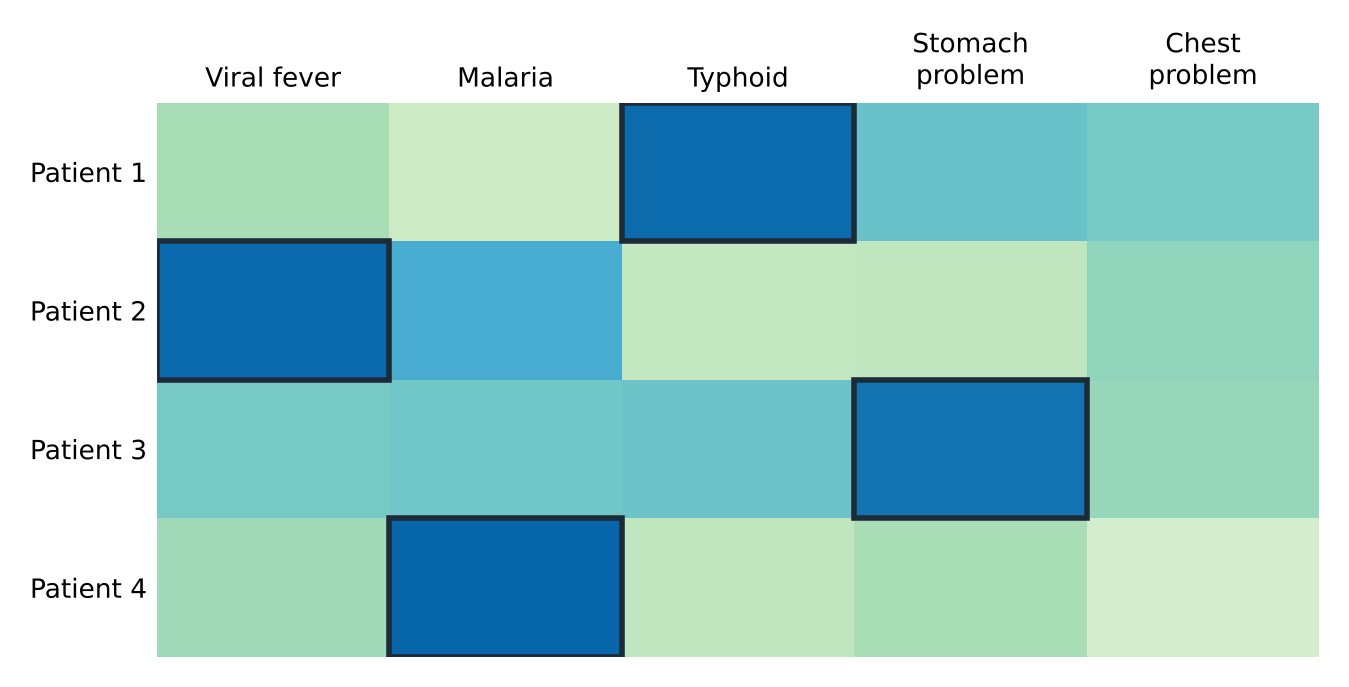
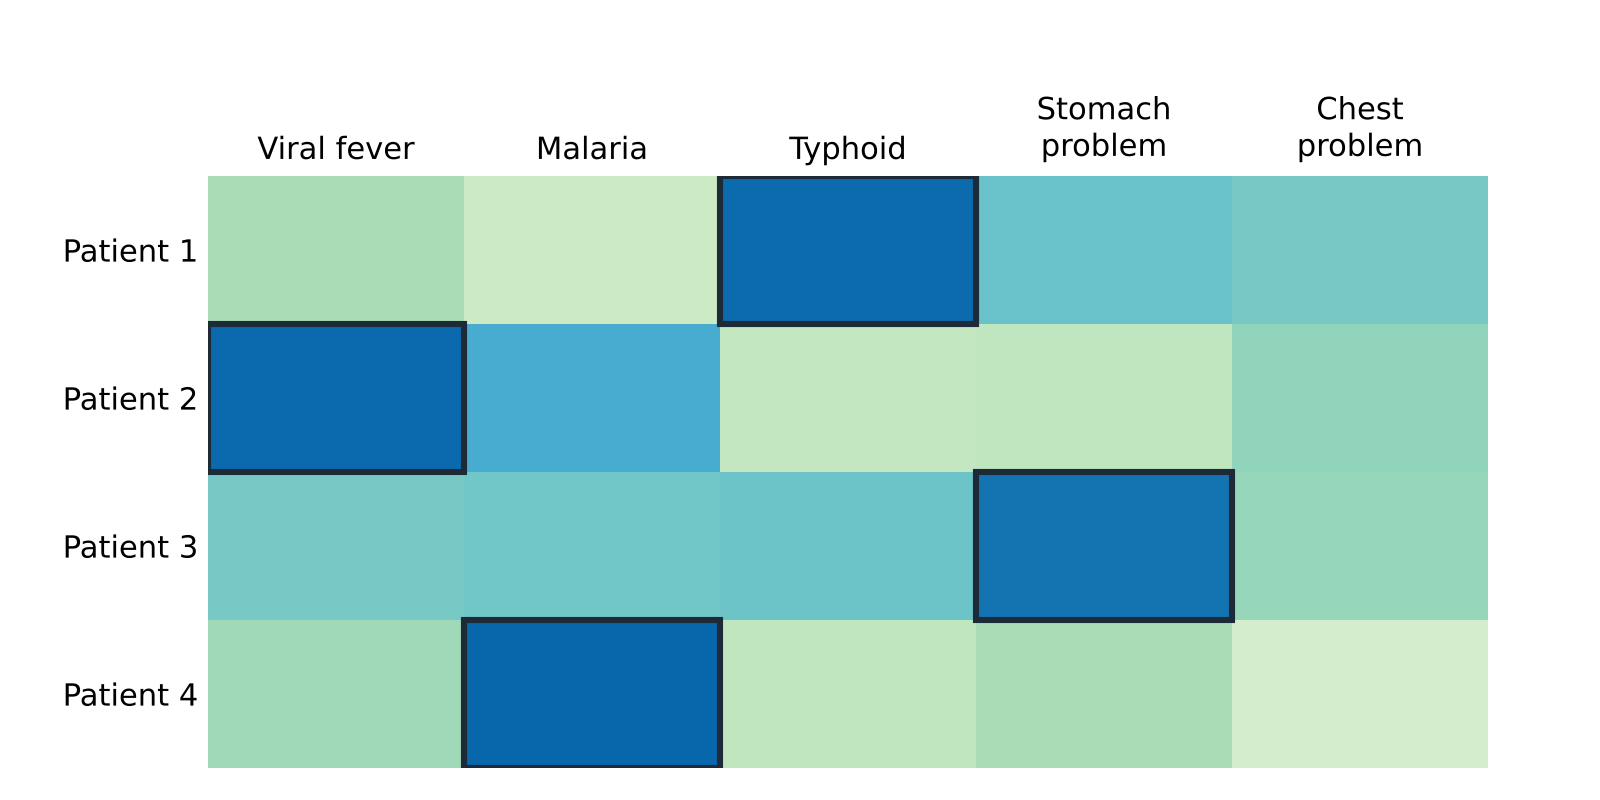
Give ML foundations figures a uniform size

Changed region(s): [[0.0, 0.0306, 0.9963, 0.9782]]

diff --git a/static/research/ml-foundations/index.html b/static/research/ml-foundations/index.html
@@ -53,8 +53,8 @@
 
       <h2>Motivation</h2>
       <p>Real data is rarely clean. A patient's symptoms only partly match a disease, an expert hesitates between two ratings, and a pixel sits on the border between two regions. Fuzzy sets handle this by giving each element a degree of membership. Later models add more detail. Intuitionistic fuzzy sets add a degree of non-membership. Picture fuzzy sets add neutrality. Pythagorean and Fermatean fuzzy sets relax the constraint on membership and non-membership, so they can describe evaluations that the earlier models cannot (figure below). Complex-valued versions add a second, periodic component.</p>
-      <figure class="narrow">
-        <img src="motivation.png" alt="Unit square of membership against non-membership with three nested regions: below the line mu plus nu equals one for intuitionistic fuzzy sets, below the quarter circle for Pythagorean, and below the curve mu cubed plus nu cubed equals one for Fermatean. The point (0.8, 0.7) lies only in the Fermatean region." width="952" height="599">
+      <figure>
+        <img src="motivation.png?v=3" alt="Unit square of membership against non-membership with three nested regions: below the line mu plus nu equals one for intuitionistic fuzzy sets, below the quarter circle for Pythagorean, and below the curve mu cubed plus nu cubed equals one for Fermatean. The point (0.8, 0.7) lies only in the Fermatean region." width="1600" height="800">
         <figcaption>Each model allows a larger range of membership and non-membership values. The pair (0.8, 0.7) cannot be expressed by the first two models but can by a Fermatean fuzzy set.</figcaption>
       </figure>
       <p>Every richer model needs its own way to compare objects, and that is where the gap was. Some of these models had no distance measure at all. Others had measures that gave counter-intuitive answers, for example treating two clearly different sets as equally close, or that did not satisfy the basic properties of a distance. Any classifier, clustering method or decision rule built on such a measure inherits the problem.</p>
@@ -84,24 +84,24 @@
       <h3>Pattern recognition</h3>
       <p class="uses">Papers [1], [2], [4]</p>
       <p>Each known pattern is a fuzzy set, and a new sample is assigned to the closest pattern. The hard cases are patterns that are similar but not identical, which is exactly where earlier measures could not separate them.</p>
-      <figure class="narrow">
-        <img src="app-pattern.png?v=2" alt="An unknown sample B connected to three known patterns; the line to pattern P2 is shortest and highlighted, so B is assigned to P2." width="880" height="680" loading="lazy">
+      <figure>
+        <img src="app-pattern.png?v=3" alt="An unknown sample B connected to three known patterns; the line to pattern P2 is shortest and highlighted, so B is assigned to P2." width="1600" height="800" loading="lazy">
         <figcaption>An unknown sample <em>B</em> is assigned to the pattern with the smallest distance, here <em>P</em><sub>2</sub>.</figcaption>
       </figure>
 
       <h3>Medical diagnosis</h3>
       <p class="uses">Paper [2]</p>
       <p>Patients and diseases are both described by symptoms, each with degrees of presence, absence and uncertainty. The diagnosis for a patient is the disease at the smallest distance.</p>
-      <figure class="narrow">
-        <img src="app-diagnosis.png" alt="A grid of four patients by five diseases shaded by distance; the closest disease for each patient is boxed." width="1349" height="687" loading="lazy">
+      <figure>
+        <img src="app-diagnosis.png?v=3" alt="A grid of four patients by five diseases shaded by distance; the closest disease for each patient is boxed." width="1600" height="800" loading="lazy">
         <figcaption>Darker cells mean a smaller distance between patient and disease. The boxed cell in each row is the diagnosis. Illustrative values.</figcaption>
       </figure>
 
       <h3>Clustering</h3>
       <p class="uses">Papers [1], [2], [3], [4]</p>
       <p>Given a reliable divergence between every pair of objects, hierarchical clustering merges the most similar objects first, and cutting the tree gives the clusters.</p>
-      <figure class="narrow">
-        <img src="app-clustering.png" alt="A dendrogram of twelve objects A1 to A12 cut at a dashed line into three coloured clusters." width="1264" height="636" loading="lazy">
+      <figure>
+        <img src="app-clustering.png?v=3" alt="A dendrogram of twelve objects A1 to A12 cut at a dashed line into three coloured clusters." width="1600" height="800" loading="lazy">
         <figcaption>Hierarchical clustering on pairwise divergences, cut into three clusters.</figcaption>
       </figure>
 
@@ -109,15 +109,15 @@
       <p class="uses">Paper [5]</p>
       <p>Segmentation is clustering of pixels. Real images are noisy and their regions are not cleanly separated, and some colour features separate regions better than others. Learning a weight for each feature lets the algorithm rely on the informative ones, which makes it more robust to noise.</p>
       <figure>
-        <img src="app-segmentation.png?v=2" alt="Left: a noisy microscope image of colon tissue with brown-stained glands and blue nuclei. Right: its fuzzy c-means segmentation into strongly stained, weakly stained, nuclei and background regions." width="1828" height="829" loading="lazy">
+        <img src="app-segmentation.png?v=3" alt="Left: a noisy microscope image of colon tissue with brown-stained glands and blue nuclei. Right: its fuzzy c-means segmentation into strongly stained, weakly stained, nuclei and background regions." width="1600" height="800" loading="lazy">
         <figcaption>Fuzzy c-means on a noisy immunohistochemistry image of colon tissue (scikit-image sample data), separating stained glands, nuclei and background. My methods build on this kind of clustering by also learning a weight for each feature.</figcaption>
       </figure>
 
       <h3>Decision making</h3>
       <p class="uses">Papers [1], [3], [4]</p>
       <p>When experts rate several alternatives on several criteria, often with hesitation, each alternative can be ranked by how close it is to an ideal solution and how far from the worst one.</p>
-      <figure class="narrow">
-        <img src="app-decision.png" alt="Four alternatives plotted against two criteria, each connected to an ideal point and a worst point." width="1264" height="656" loading="lazy">
+      <figure>
+        <img src="app-decision.png?v=3" alt="Four alternatives plotted against two criteria, each connected to an ideal point and a worst point." width="1600" height="800" loading="lazy">
         <figcaption>Alternatives <em>a</em><sub>1</sub>&ndash;<em>a</em><sub>4</sub> are ranked by how close they are to the ideal solution and how far from the worst one.</figcaption>
       </figure>
 
